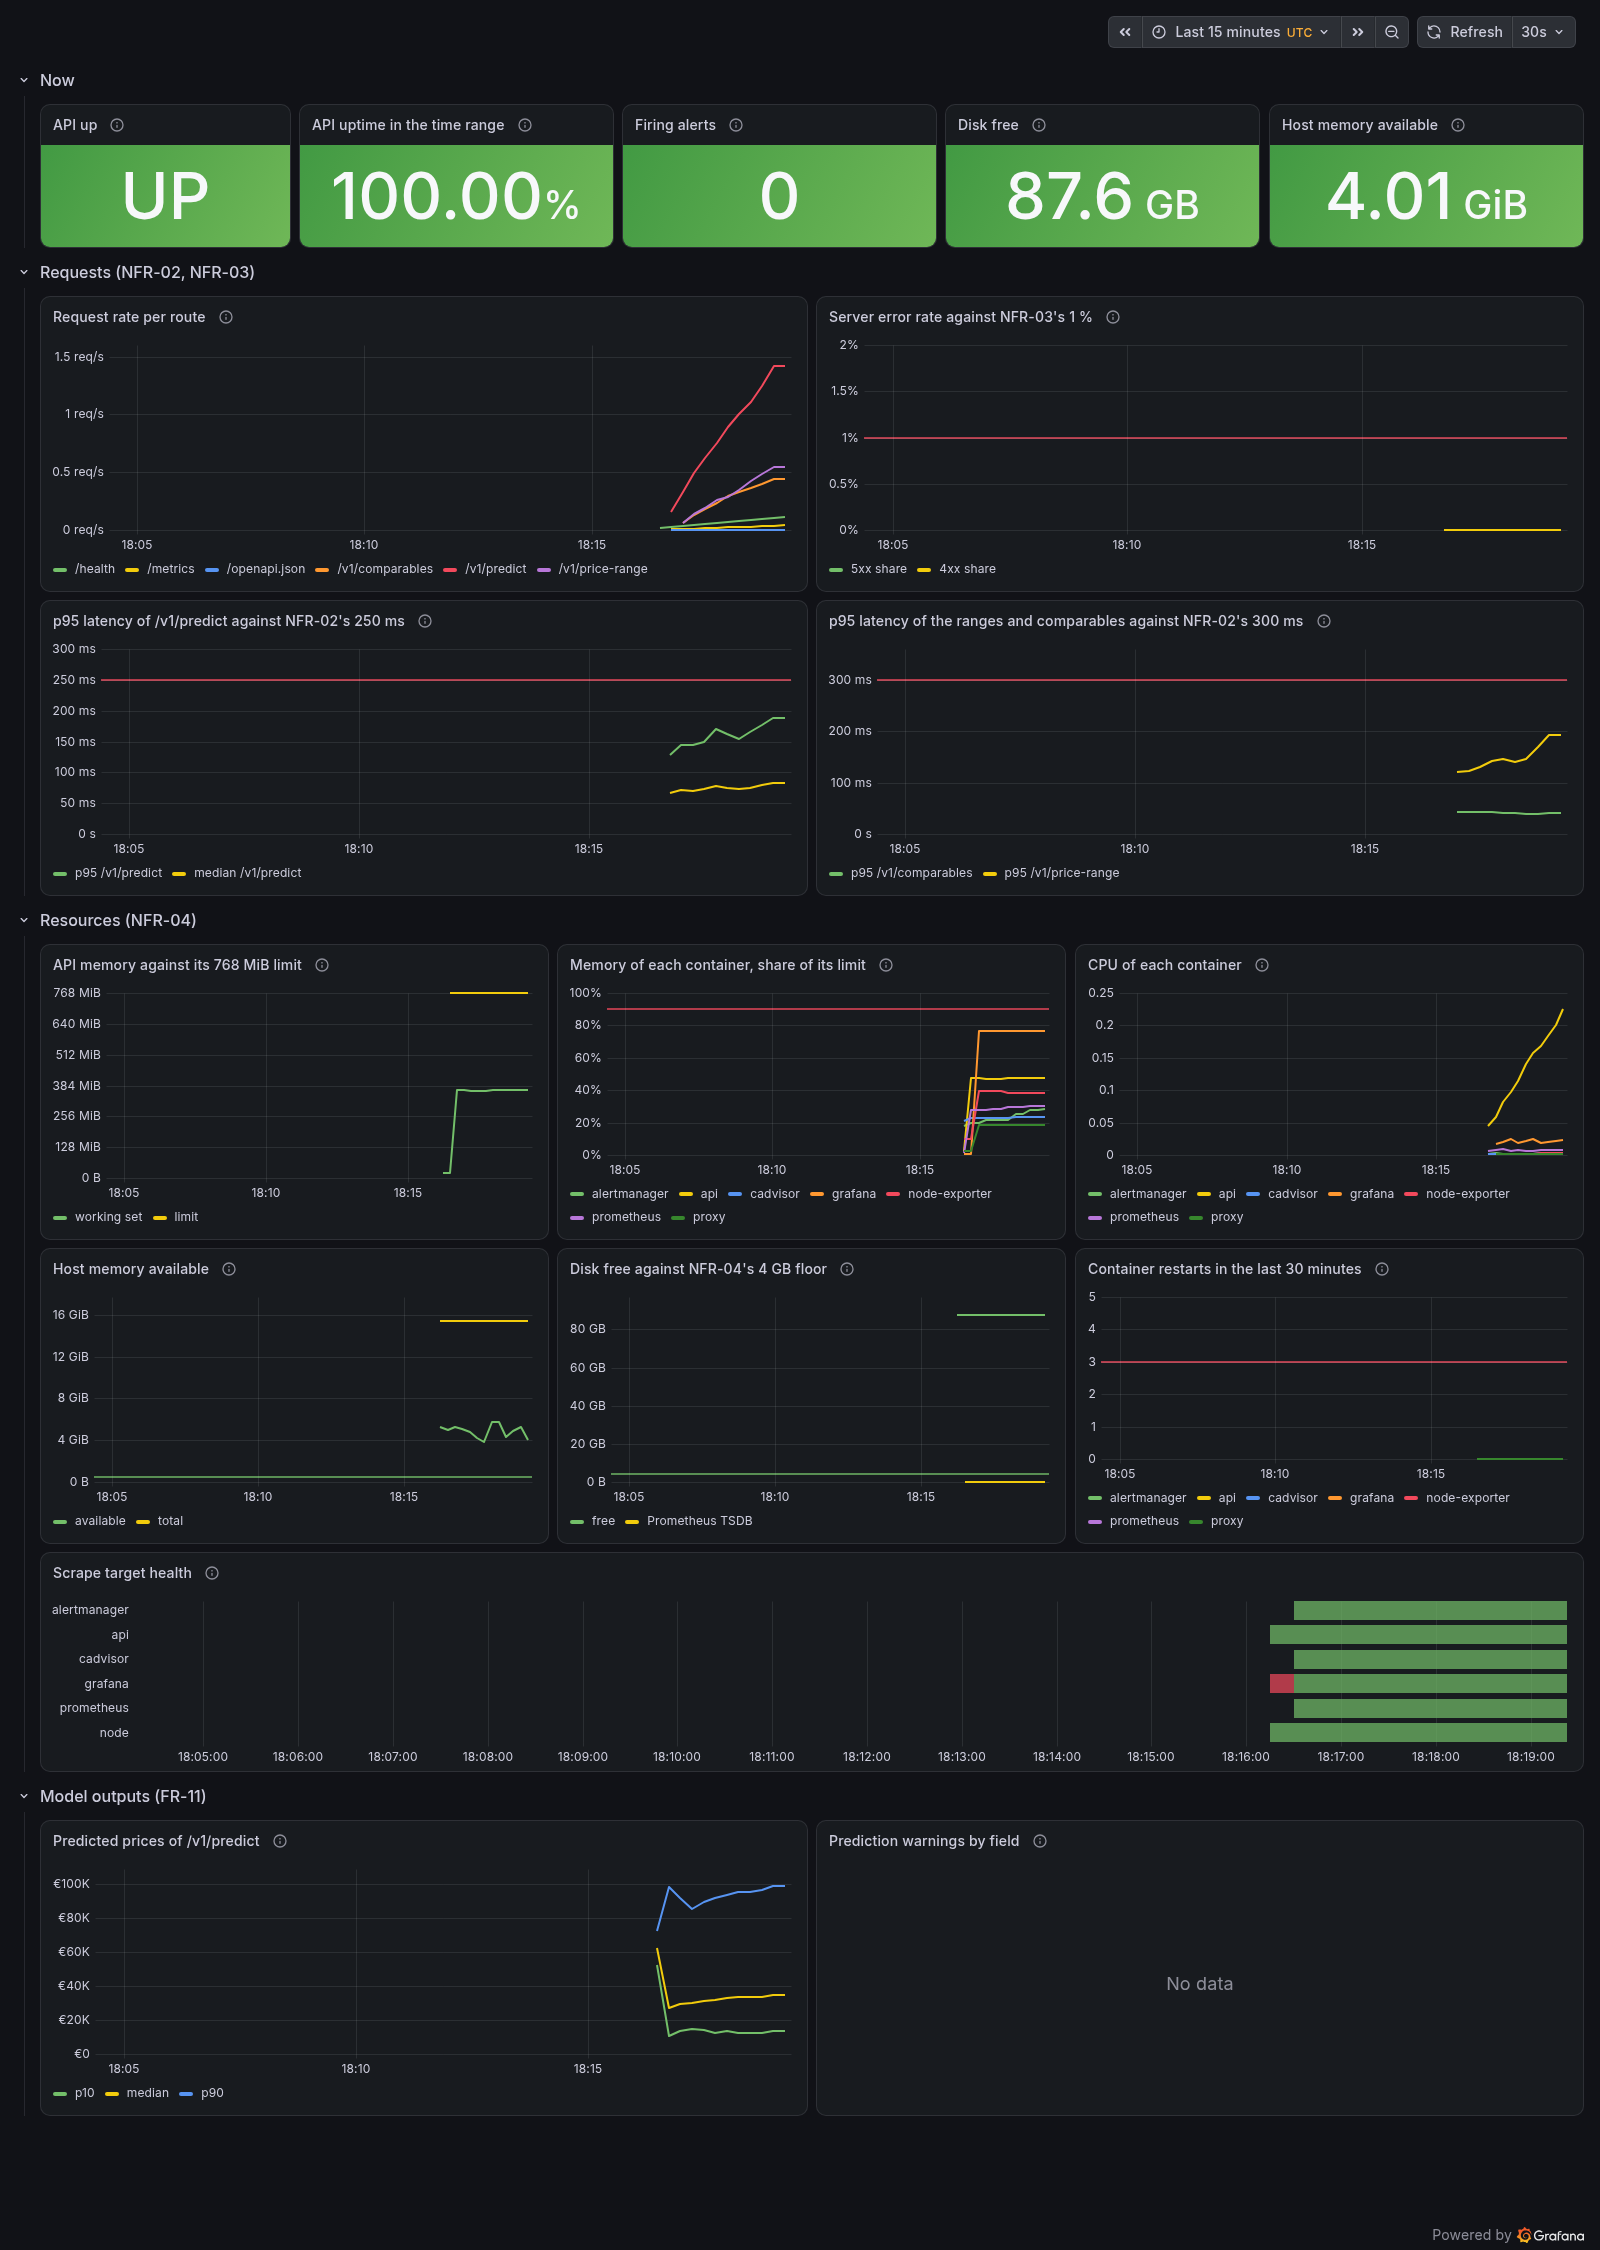
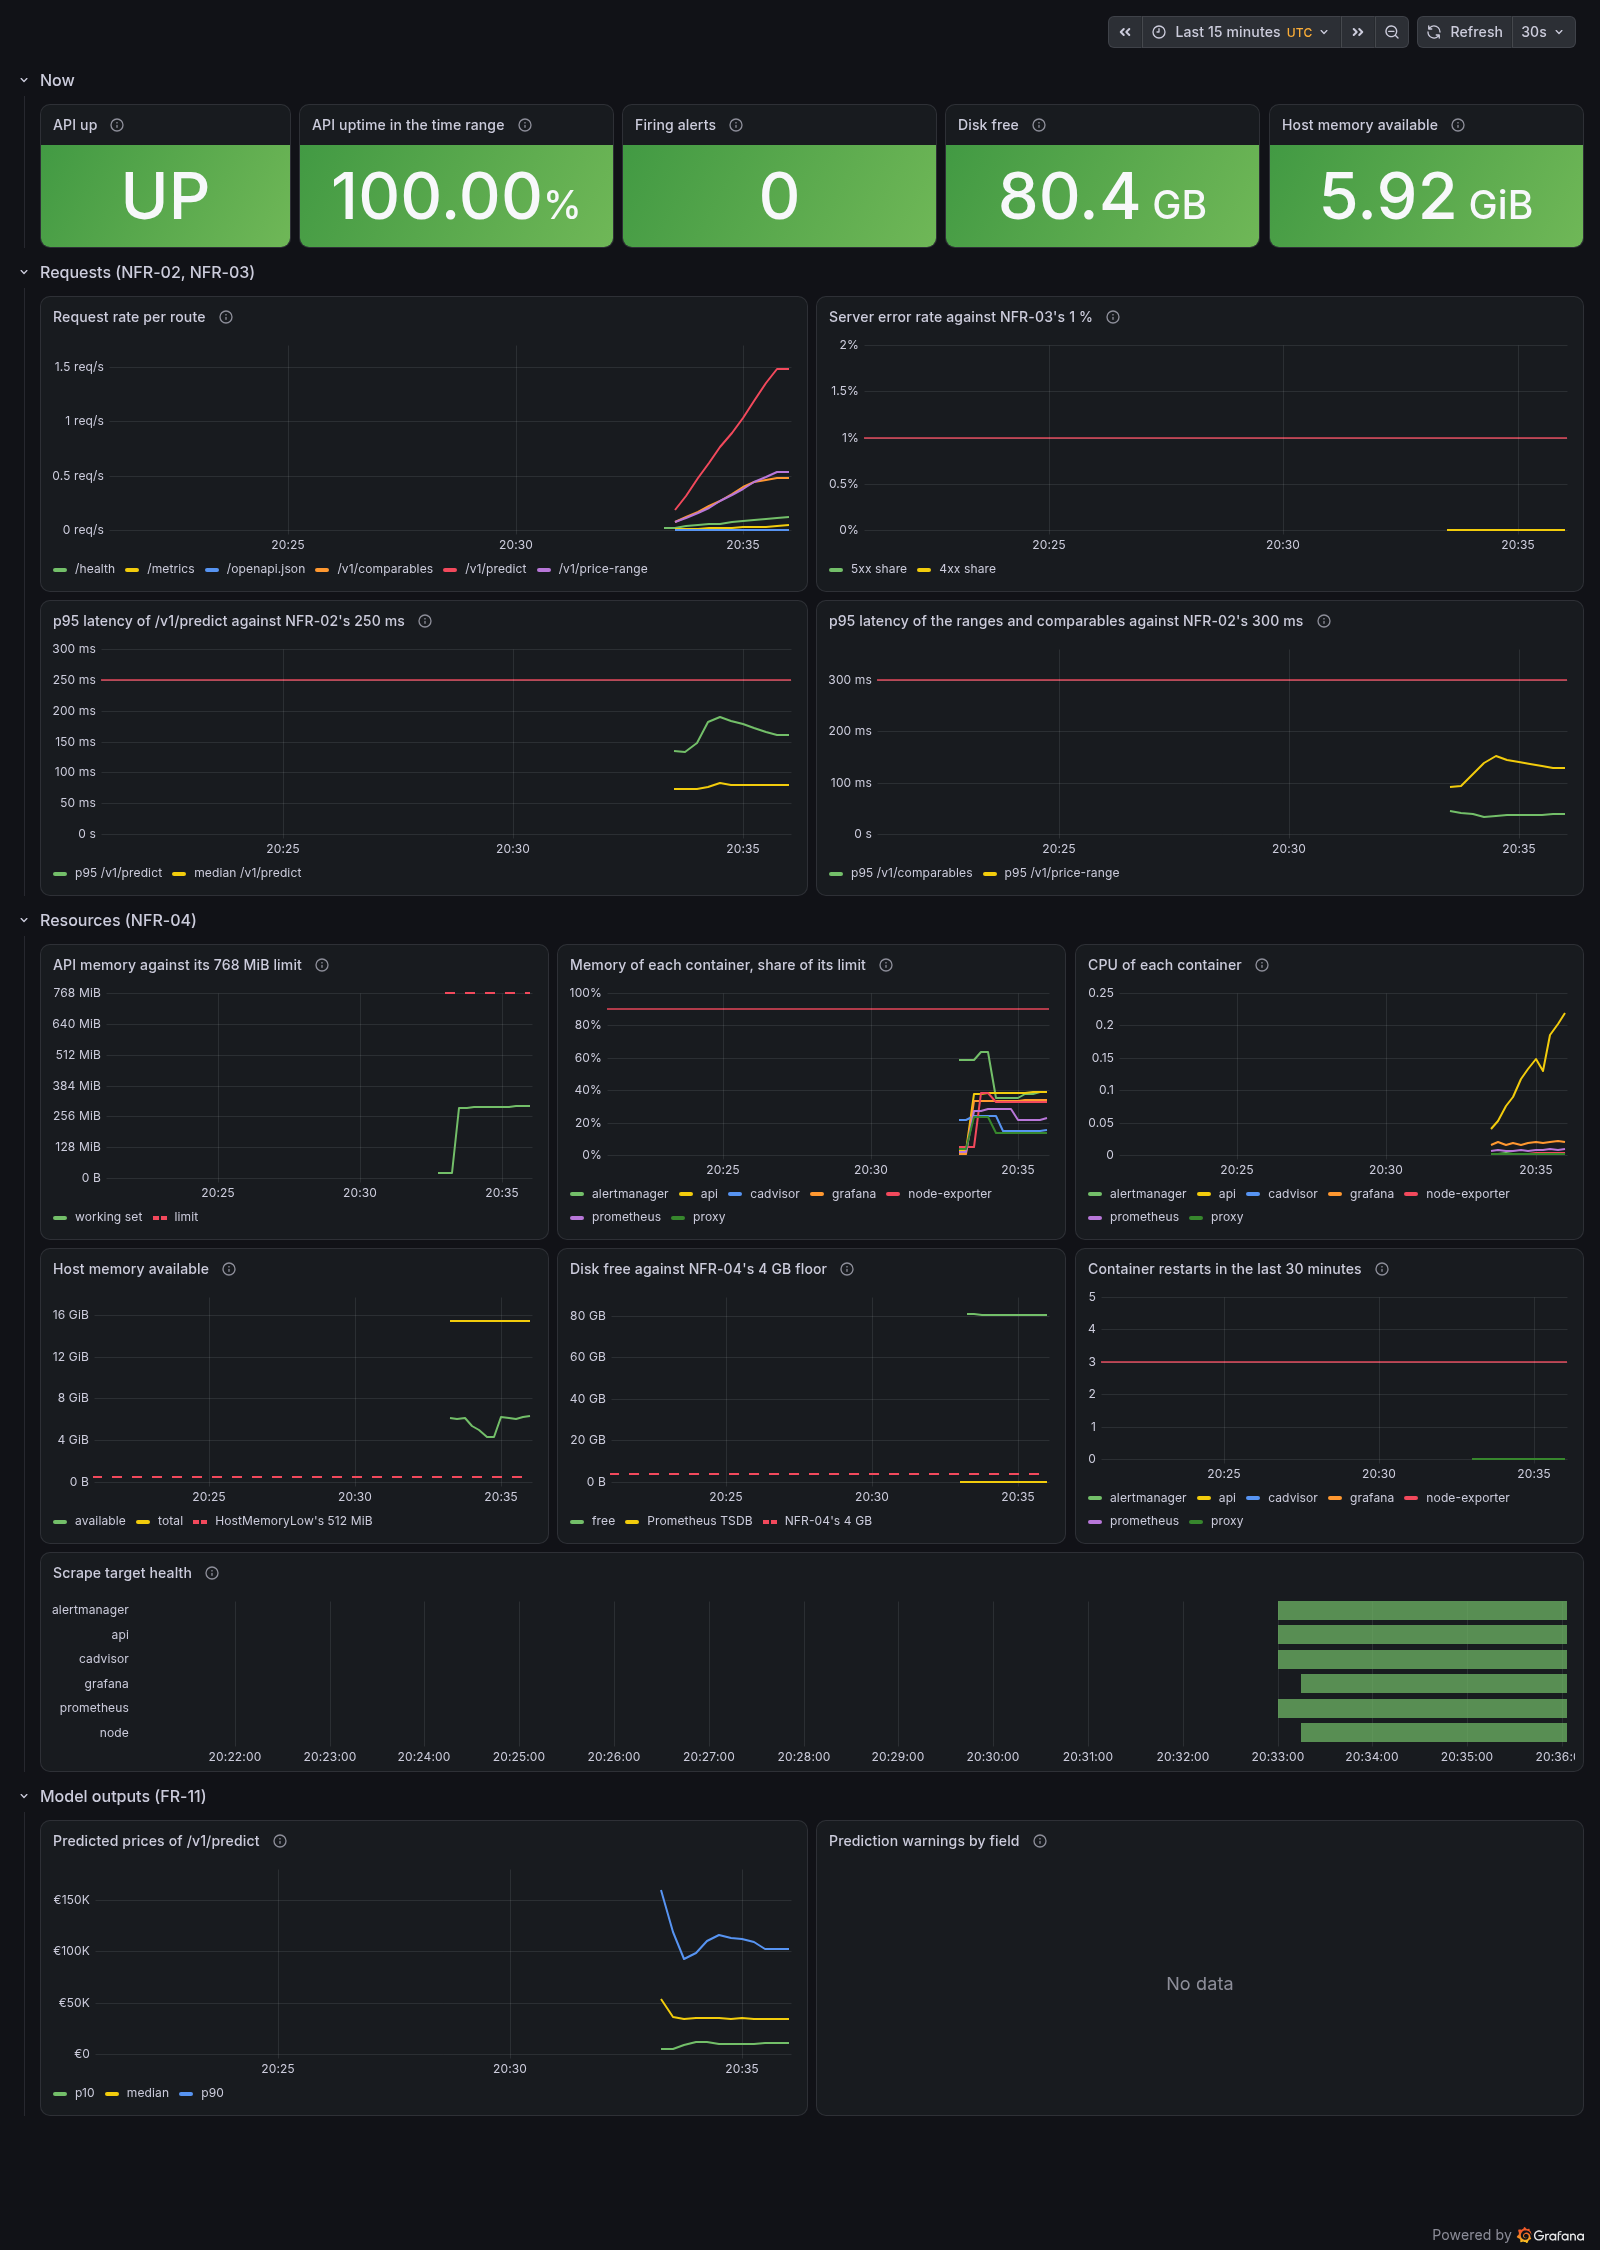
docs: draw the dashboard's floors as red dashed series, retake its screenshot, and correct the SSH note of the load tests

diff --git a/reports/latex/edn/99-prometheus-and-two-exporters-in-every.tex b/reports/latex/edn/99-prometheus-and-two-exporters-in-every.tex
@@ -35,7 +35,6 @@ Lukas answered: ``Adopt all; the agents record them in four EDN entries (log, re
 Question (translated from German): ``How should Grafana on the VM be reachable? (Important: the public URL does not work on the university network at all, SSH does. The VM's ports 8080-8089 are public.)''
 Lukas answered: ``Only through an SSH tunnel. Grafana listens only on 127.0.0.1 of the VM, opened with \texttt{ssh -\allowbreak{}L 3000:127.\allowbreak{}0.\allowbreak{}0.\allowbreak{}1:3000 .\allowbreak{}.\allowbreak{}.\allowbreak{}}, from home with UPClink, on the university network directly. Nothing new becomes public (NFR-09), and it also works in the presentation room.'' (translated from German)
 Question (translated from German): ``Where should the monitoring alerts go (latency, error rate, disk, RAM, API down, drift, coverage)? According to the working agreements the team communicates through Discord.''
-Lukas answered: ``Discord webhook. Prometheus rules plus Alertmanager (about 25 MiB, rules tested with promtool) send alerts into the team Discord, each with what to do.'' (translated from German)
-Orchestrator briefing (core, paraphrased): ``provision the dashboard against the NFR-02 to NFR-05 targets, and alerts that fire before a limit is hit, each with what to do, delivered to the team's Discord.''},
+Lukas answered: ``Discord webhook. Prometheus rules plus Alertmanager (about 25 MiB, rules tested with promtool) send alerts into the team Discord, each with what to do.'' (translated from German)},
   evidence = {\href{https://github.com/mlops-2627q1-mds-upc/MLOPS_Recommenditos/issues/224}{Issue \#224}, \href{https://github.com/mlops-2627q1-mds-upc/MLOPS_Recommenditos/pull/284}{PR \#284}, \href{https://github.com/mlops-2627q1-mds-upc/MLOPS_Recommenditos/issues/225}{Issue \#225}, \href{https://github.com/mlops-2627q1-mds-upc/MLOPS_Recommenditos/blob/main/docs/docs/monitoring.md\#resource-monitoring}{Resource monitoring}, \href{https://github.com/mlops-2627q1-mds-upc/MLOPS_Recommenditos/blob/main/docs/docs/monitoring.md\#alerts}{Alerts}, \href{https://github.com/mlops-2627q1-mds-upc/MLOPS_Recommenditos/blob/main/deploy/compose.yaml}{\texttt{compose.\allowbreak{}yaml}}, EDN-87.},
 }

diff --git a/docs/docs/monitoring.md b/docs/docs/monitoring.md
@@ -132,7 +132,7 @@ Grafana runs in the stack and shows one provisioned dashboard, **Service health*
 | Request rate per route | FR-11 | - |
 | p95 latency of `/v1/predict` | NFR-02: 250 ms ([EDN-88](https://github.com/mlops-2627q1-mds-upc/MLOPS_Recommenditos/blob/main/reports/edn.md)) | [PredictLatencyHigh](#predictlatencyhigh-and-rangelatencyhigh) |
 | p95 latency of `/v1/price-range` and `/v1/comparables` | NFR-02: 300 ms | [RangeLatencyHigh](#predictlatencyhigh-and-rangelatencyhigh) |
-| Server error rate | NFR-03: 1 % | [ErrorRateHigh](#errorratehigh) |
+| Server error rate | NFR-03: 1 % | [ErrorRateHigh](#errorratehigh), [ServerErrors](#servererrors) |
 | API memory | its 768 MiB limit (NFR-04 caps it at 1 GB) | [ContainerMemoryNearLimit](#containermemorynearlimit) |
 | Memory of each container, share of its limit | 90 % | [ContainerMemoryNearLimit](#containermemorynearlimit) |
 | CPU of each container | the VM's one vCPU | - |
@@ -141,6 +141,7 @@ Grafana runs in the stack and shows one provisioned dashboard, **Service health*
 | Container restarts in the last 30 minutes | 3 | [ContainerRestarting](#containerrestarting) |
 | Predicted prices, prediction warnings by field | FR-11, FR-05 | drift and error follow in [#230](https://github.com/mlops-2627q1-mds-upc/MLOPS_Recommenditos/issues/230) |
 
+Every target and limit is drawn in red, as a threshold line or, for the API's memory limit and the host's memory and disk floors, as a dashed series, so that none is mistaken for data.
 The uptime panel is the share of Prometheus' scrapes of the API that succeeded in the dashboard's time range, seen from inside the stack.
 It cannot see the VM or its network being gone; the uptime NFR-05 reports is Better Stack's, from outside ([External uptime check](deployment.md#external-uptime-check), EDN-10).
 

diff --git a/reports/edn.md b/reports/edn.md
@@ -1475,7 +1475,6 @@ How to add an entry:
   Lukas answered: "Only through an SSH tunnel. Grafana listens only on 127.0.0.1 of the VM, opened with `ssh -L 3000:127.0.0.1:3000 ...`, from home with UPClink, on the university network directly. Nothing new becomes public (NFR-09), and it also works in the presentation room." (translated from German)
   Question (translated from German): "Where should the monitoring alerts go (latency, error rate, disk, RAM, API down, drift, coverage)? According to the working agreements the team communicates through Discord."
   Lukas answered: "Discord webhook. Prometheus rules plus Alertmanager (about 25 MiB, rules tested with promtool) send alerts into the team Discord, each with what to do." (translated from German)
-  Orchestrator briefing (core, paraphrased): "provision the dashboard against the NFR-02 to NFR-05 targets, and alerts that fire before a limit is hit, each with what to do, delivered to the team's Discord."
 - **Other evidence:** [Issue #224](https://github.com/mlops-2627q1-mds-upc/MLOPS_Recommenditos/issues/224), [PR #284](https://github.com/mlops-2627q1-mds-upc/MLOPS_Recommenditos/pull/284), [Issue #225](https://github.com/mlops-2627q1-mds-upc/MLOPS_Recommenditos/issues/225), [Resource monitoring](../docs/docs/monitoring.md#resource-monitoring), [Alerts](../docs/docs/monitoring.md#alerts), [`compose.yaml`](../deploy/compose.yaml), EDN-87.
 - **In LaTeX:** yes
 

diff --git a/docs/docs/load-testing.md b/docs/docs/load-testing.md
@@ -100,7 +100,7 @@ It could not run elsewhere anyway: the public URL does not answer from the UPC n
 Locust then shares the VM's one vCPU with the stack; the report gives its CPU beside the API container's.
 Its latency then contains no network, which is what NFR-02's "on the target VM" asks for.
 
-Every command below runs from a laptop on the UPC network or UPClink, over SSH as the deploy user, whose home is the stack's directory `/opt/recommenditos`.
+Every command below runs from a laptop with UPClink connected, on campus too (from the university's Wi-Fi, eduroam, the SSH port timed out on 2026-11-04, [The VM](deployment.md#the-vm)), over SSH as the deploy user, whose home is the stack's directory `/opt/recommenditos`.
 
 **Setup on the VM**, once: uv in the deploy user's home, a checkout of the public repository at the commit the VM runs, without any DagsHub token, and an environment with Locust and CodeCarbon alone (about 320 MB).
 The installer puts uv into `~/.local/bin`; `UV_NO_MODIFY_PATH=1` keeps it from editing the shell profiles, and the commands call uv by its path.
